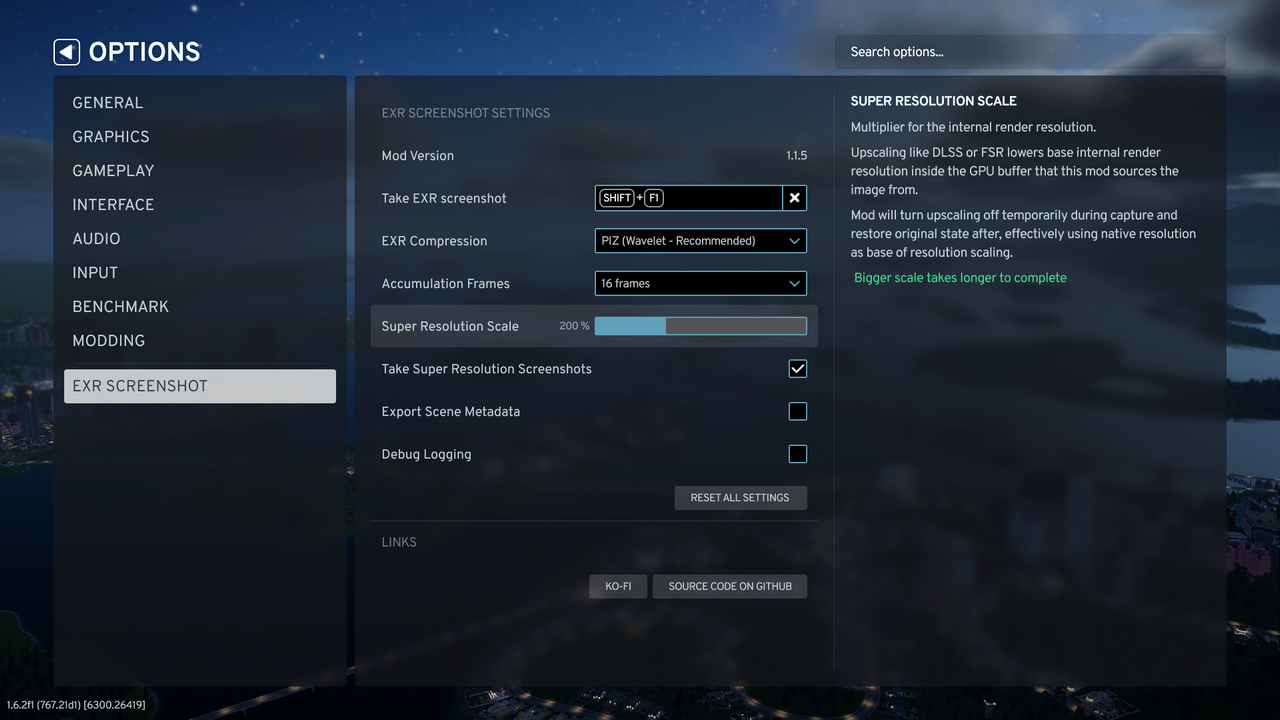
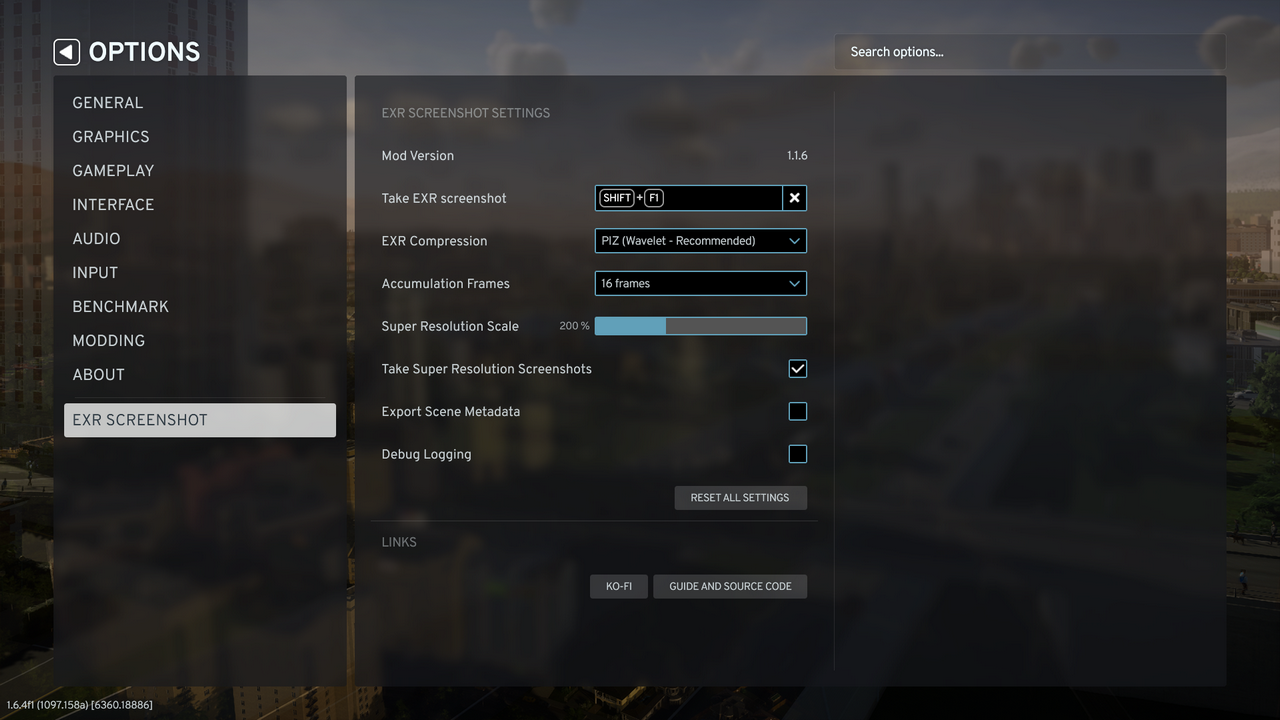
docs: update guide - locale for link to gihub - publish config

diff --git a/Settings/LocaleEn.cs b/Settings/LocaleEn.cs
@@ -39,8 +39,8 @@ namespace EXRScreenshot.Settings
                 { setting.GetOptionDescLocaleID(nameof(Setting.KoFiLink)), "Opens Ko-Fi page"},
                 
                 // Github
-                { setting.GetOptionLabelLocaleID(nameof(Setting.GithubLink)), "Source Code on Github" },
-                { setting.GetOptionDescLocaleID(nameof(Setting.GithubLink)), "Access to source code, and detailed explanation to answer as many questions you might have."},
+                { setting.GetOptionLabelLocaleID(nameof(Setting.GithubLink)), "Guide and Source Code" },
+                { setting.GetOptionDescLocaleID(nameof(Setting.GithubLink)), "Opens GitHub with Guide and source code."},
                 
                 // Mod Version
                 { setting.GetOptionLabelLocaleID(nameof(Setting.ModVersion)), "Mod Version"},

diff --git a/TECHNICAL.md b/TECHNICAL.md
@@ -348,7 +348,7 @@ Now import some EXR Screenshots and drop them on the timeline, multiple screensh
 
 ---
 
-### Project Setup in Resolve
+### Project Setup in DaVinci Resolve
 
 ### Easy method
 

diff --git a/README.md b/README.md
@@ -40,7 +40,7 @@ Now import some EXR Screenshots and drop them on the timeline, multiple screensh
 
 ---
 
-### Project Setup in Resolve
+### Project Setup in DaVinci Resolve
 
 ### Easy method
 
